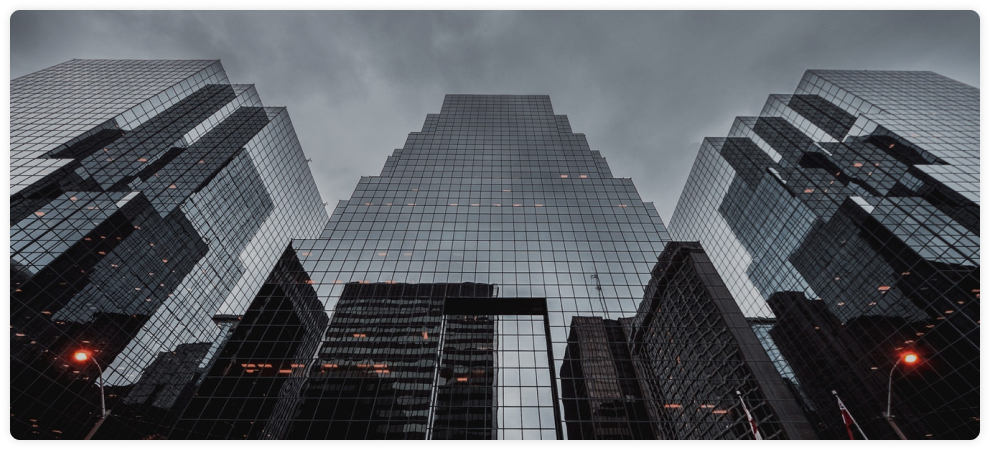
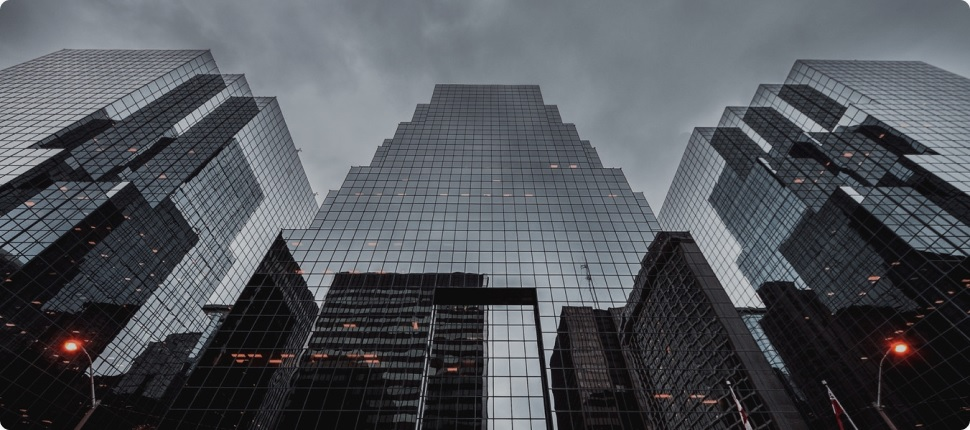
Сайт на флексах6

diff --git a/сайт 2/index.html b/сайт 2/index.html
@@ -257,16 +257,16 @@
                     стандартной "рыбой" для текстов на латинице с начала XVI века.
                 </p>
                 <div class="allProjects-row">
-                    <a href="#">
+                    <a href="#" class="allProjects-column">
                         <img src="img/allProjects-photo.jpg" alt="allProjects-photo" class="allProjects-photo">
                     </a>
-                    <a href="#">
+                    <a href="#" class="allProjects-column">
                         <img src="img/allProjects-photo.jpg" alt="allProjects-photo" class="allProjects-photo">
                     </a>
-                    <a href="">
+                    <a href="" class="allProjects-column">
                         <img src="img/allProjects-photo.jpg" alt="allProjects-photo" class="allProjects-photo">
                     </a>
-                    <a href="#">
+                    <a href="#" class="allProjects-column">
                         <img src="img/allProjects-photo.jpg" alt="allProjects-photo" class="allProjects-photo">
                     </a>
                 </div>
@@ -285,11 +285,14 @@
                 <p class="subcribe-subtitle white-subtitle">
                     Просто посмотрите, как мы работаем
                 </p>
-                <div class="subcribe-video">
-                    <a href="#" class="subcribe-link white-subtitle">
-                        Смотреть видео
-                    </a>
-                </div>
+                <figure class="subcribe-video">
+                    <img src="img/Subcribe-video.jpg" alt="subcribe-video" class="subcribe-video-img">
+                    <figcaption>
+                        <a href="#" class="subcribe-link white-subtitle">
+                            Смотреть видео
+                        </a>
+                    </figcaption>
+                </figure>
                 <hr class="line">
                 <h3 class="subcribe-small-title small-title">
                     Подпишитесь на нашу рассылку

diff --git a/сайт 2/css/style.css b/сайт 2/css/style.css
@@ -211,7 +211,7 @@ header {
 
 /* Свойства для intro */
 .intro {
-    background: url(../img/Background-intro.jpg) no-repeat center;
+    background: linear-gradient(0deg, rgba(0, 0, 0, 0.2), rgba(0, 0, 0, 0.2)), url(../img/Background-intro.jpg) no-repeat center;
     background-size: cover;
     min-height: 80vh;
     padding-top: 320px;
@@ -444,13 +444,22 @@ header {
     flex-wrap: wrap;
     align-items: flex-start;
     justify-content: space-between;
+    margin-bottom: 50px;
+}
+
+.allProjects-column {
+    width: 255px;
+    height: 255px;
+    overflow: hidden;
+    border-radius: 10px;
+}
+
+.allProjects-column:hover .allProjects-photo{
+    transform: scale(1.05);
 }
 
 .allProjects-photo {
-    border-radius: 10px;
-    margin-bottom: 50px;
-    width: 255px;
-    height: 255px;
+    transition: 0.5s all;
 }
 
 .allProjects-button {
@@ -469,7 +478,7 @@ header {
     position: absolute;
     top: 0;
     left: 0;
-    background: url(../img/Background-subcribe.jpg) no-repeat center;
+    background:  linear-gradient(0deg, rgba(255, 255, 255, 0.15), rgba(255, 255, 255, 0.15)), url(../img/Background-subcribe.jpg) no-repeat center;
     background-size: cover;
     height: 55%;
     width: 100%;
@@ -487,15 +496,19 @@ header {
 }
 
 .subcribe-video {
-    width: 970px;
-    height: 430px;
-    background: url(../img/Subcribe-video.jpg) no-repeat center;
-    border-radius: 10px;
     margin: auto;
     margin-bottom: 85px;
+    position: relative;
+    overflow: hidden;
     display: flex;
     align-items: center;
     justify-content: center;
+}
+
+.subcribe-video-img {
+    height: 430px;
+    object-fit: cover;
+    border-radius: 10px;
 }
 
 .subcribe-link {
@@ -507,10 +520,14 @@ header {
     height: 100px;
     text-decoration: none;
     line-height: 100px;
-    vertical-align: middle;
     text-align: right;
     padding-right: 30px;
     transition: 0.7s all;
+    position: absolute;
+    top: 50%;
+    left: 50%;
+    margin-right: -50%;
+    transform: translate(-50%, -50%);
 }
 
 .subcribe-link:hover {
